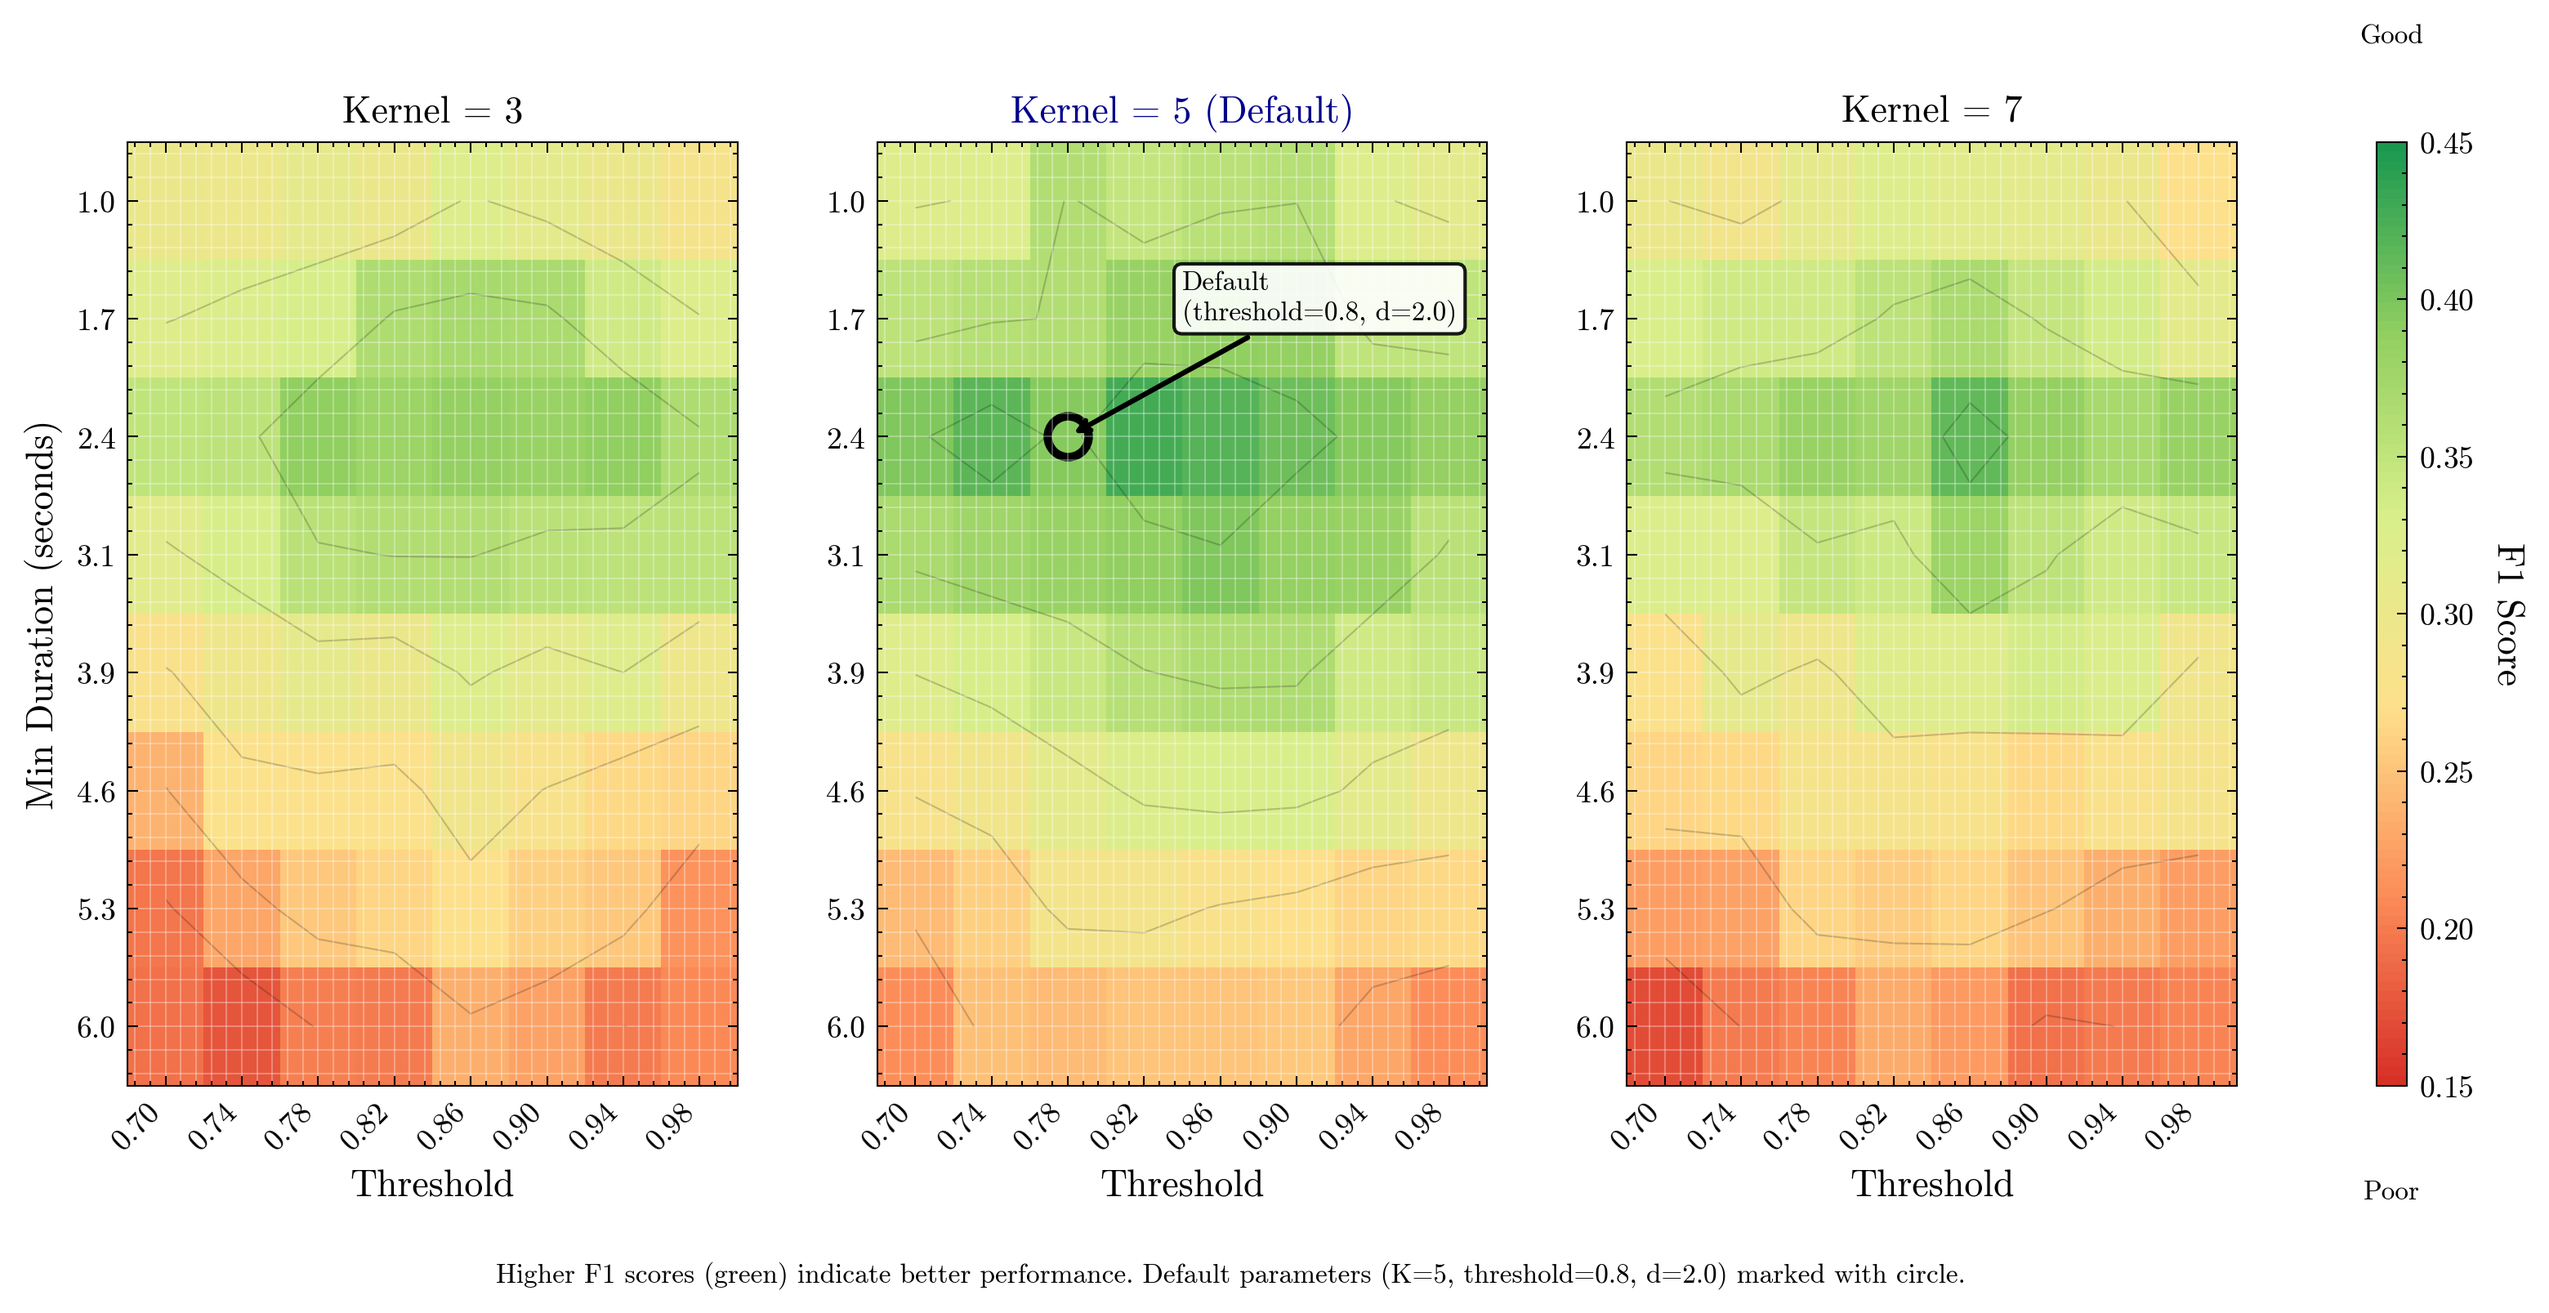
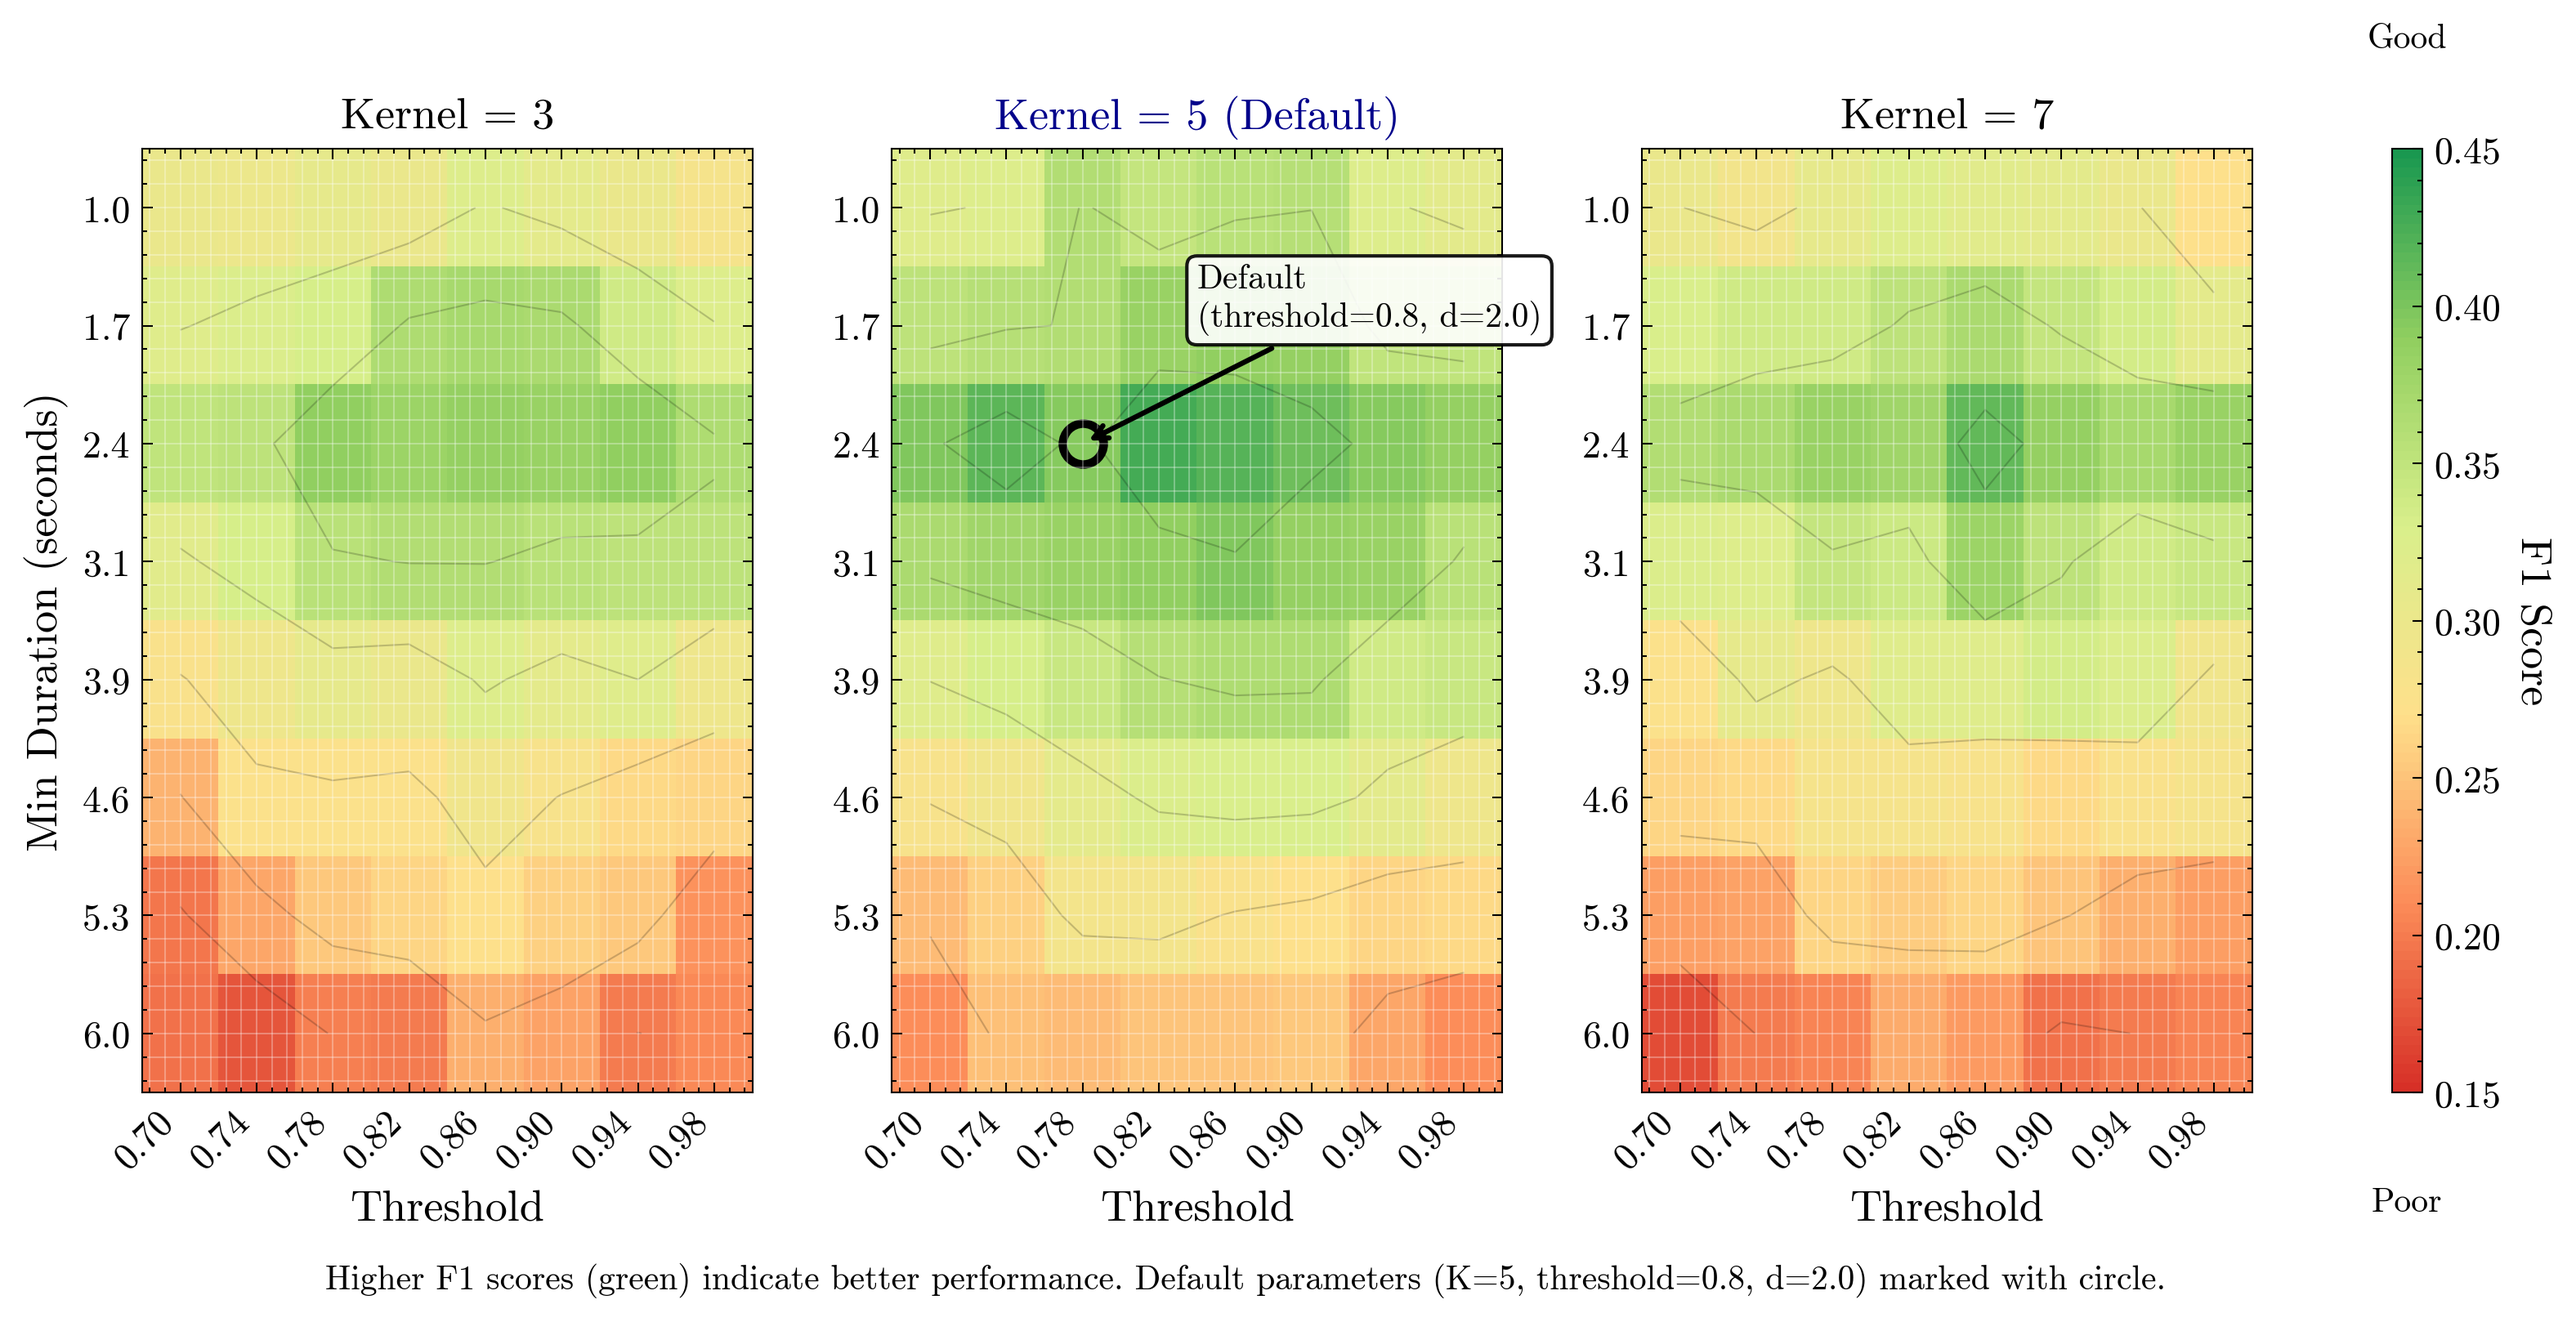
feat: Update parameter heatmap figures and scripts for improved readability
- Increased font sizes in the "fig3_parameter_heatmap.py" script to enhance clarity and readability of the heatmap visualizations.
- Updated binary files for "fig3_parameter_heatmap.png" and "fig4_parameter_heatmap.png" to reflect the latest visual adjustments.
- These changes aim to improve the presentation of parameter sensitivity analysis in the arXiv submission materials for the evaluation of SeizureTransformer on TUSZ.

diff --git a/literature/arxiv_submission/figures/scripts/fig3_parameter_heatmap.py b/literature/arxiv_submission/figures/scripts/fig3_parameter_heatmap.py
@@ -83,7 +83,7 @@ def generate_fig4_optimized():
             ax.annotate('Default\n(threshold=0.8, d=2.0)',
                        xy=(default_thr_idx, default_dur_idx),
                        xytext=(default_thr_idx+1.5, default_dur_idx-1),
-                       fontsize=FONT_SIZE['annotation'],
+                       fontsize=10,  # Increased from 8
                        fontweight='bold',
                        color='black',
                        bbox=dict(boxstyle='round,pad=0.3',
@@ -94,50 +94,50 @@ def generate_fig4_optimized():
                                      color='black',
                                      lw=1.5))
 
-        # Set ticks and labels
+        # Set ticks and labels - INCREASED FONT SIZE for readability in heatmap
         ax.set_xticks(range(len(thresholds)))
         ax.set_xticklabels([f'{t:.2f}' for t in thresholds],
                           rotation=45, ha='right',
-                          fontsize=FONT_SIZE['tick'])
+                          fontsize=11)  # Increased from 9
         ax.set_yticks(range(len(durations)))
         ax.set_yticklabels([f'{d:.1f}' for d in durations],
-                          fontsize=FONT_SIZE['tick'])
+                          fontsize=11)  # Increased from 9
 
-        # Labels
-        ax.set_xlabel('Threshold', fontsize=FONT_SIZE['label'])
+        # Labels - INCREASED FONT SIZE
+        ax.set_xlabel('Threshold', fontsize=13)  # Increased from 11
         if ax == ax1:
-            ax.set_ylabel('Min Duration (seconds)', fontsize=FONT_SIZE['label'])
+            ax.set_ylabel('Min Duration (seconds)', fontsize=13)  # Increased from 11
 
-        # Title with emphasis on default
+        # Title with emphasis on default - INCREASED FONT SIZE
         if kernel == 5:
-            ax.set_title(name, fontsize=FONT_SIZE['label'],
+            ax.set_title(name, fontsize=13,  # Increased from 11
                         fontweight='bold', color='darkblue')
         else:
-            ax.set_title(name, fontsize=FONT_SIZE['label'])
+            ax.set_title(name, fontsize=13)  # Increased from 11
 
         # Add grid for better readability
         ax.grid(True, which='both', color='white', linewidth=0.5, alpha=0.3)
         ax.set_axisbelow(False)  # Grid on top of heatmap
 
-    # Add single colorbar on the right
+    # Add single colorbar on the right - INCREASED FONT SIZE
     cbar = plt.colorbar(images[0], cax=cbar_ax, orientation='vertical')
-    cbar.set_label('F1 Score', fontsize=FONT_SIZE['label'], rotation=270, labelpad=15)
-    cbar.ax.tick_params(labelsize=FONT_SIZE['tick'])
+    cbar.set_label('F1 Score', fontsize=13, rotation=270, labelpad=15)  # Increased from 11
+    cbar.ax.tick_params(labelsize=11)  # Increased from 9
 
-    # Add value annotations at top and bottom of colorbar
+    # Add value annotations at top and bottom of colorbar - INCREASED FONT SIZE
     cbar.ax.text(0.5, -0.1, 'Poor', transform=cbar.ax.transAxes,
-                fontsize=8, va='top', ha='center')
+                fontsize=10, va='top', ha='center')  # Increased from 8
     cbar.ax.text(0.5, 1.1, 'Good', transform=cbar.ax.transAxes,
-                fontsize=8, va='bottom', ha='center')
+                fontsize=10, va='bottom', ha='center')  # Increased from 8
 
     # Overall title
     # fig.suptitle('Figure 4: Parameter Sensitivity Analysis (NEDC OVERLAP Scoring)',
     #             fontsize=FONT_SIZE['title']+1, fontweight='bold', y=1.02)
 
-    # Add explanatory text - use 'threshold' instead of theta symbol
+    # Add explanatory text - use 'threshold' instead of theta symbol - INCREASED FONT SIZE
     fig.text(0.5, -0.05,
             'Higher F1 scores (green) indicate better performance. Default parameters (K=5, threshold=0.8, d=2.0) marked with circle.',
-            ha='center', fontsize=FONT_SIZE['annotation'], style='italic')
+            ha='center', fontsize=10, style='italic')  # Increased from 8
 
     plt.tight_layout()
 
